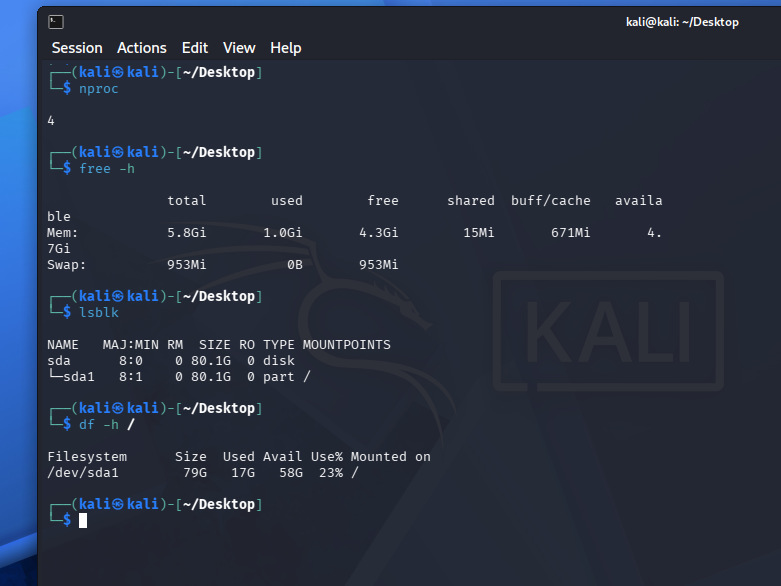
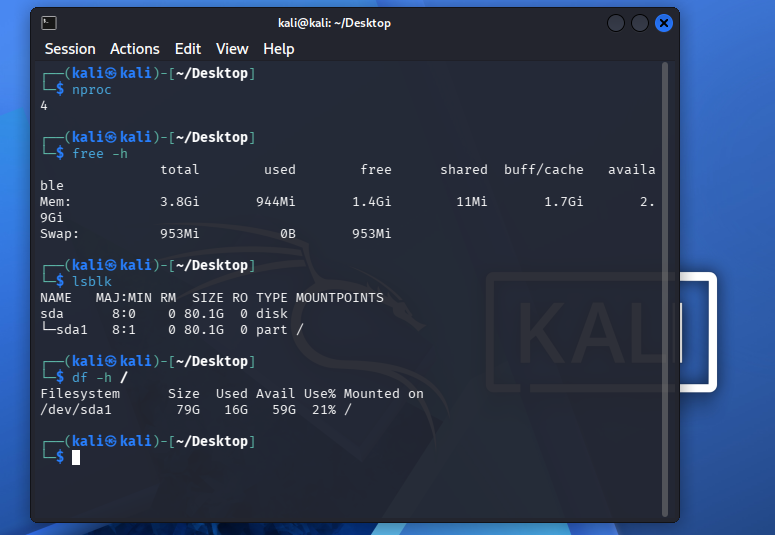
001

Changed region(s): [[0.0, 0.0, 1.0, 1.0], [0.4335, 0.2991, 0.5265, 0.4785], [0.3097, 0.2991, 0.4026, 0.4785]]

diff --git a/2026010034曹开钰/Lab4/Lab4.md b/2026010034曹开钰/Lab4/Lab4.md
@@ -1,0 +1,355 @@
+# Lab4：软件大作战
+
+> **作业目标**：在 Windows 电脑上安装并试用至少 5 款老师推荐的实用软件（其中 Everything、Geek Uninstaller、WizTree 三款必装，并平铺截图）；练习常用快捷键、解压缩、发邮件、搜索软件官网、安装油猴脚本和 Edge 插件、把浏览器主页设置为 Bing（截图）等基本操作；完成 TypingClub 第 233 关；用 edu 邮箱申请 JetBrains 学生授权和 GitHub 学生包；理解并自查 Windows 的基本正确使用风格。
+>
+> **提交前请先阅读**：本次作业只允许提交本文末尾列出的 5 个文件：`Lab4.md` 和四张截图。本模板的题目、说明、示例和选读内容不得删除；选读和建议部分不要求执行或作答，但文中所有标注（填写）的位置都必须填写。只能替换各表格中的填写提示，不得删除、改写或调整其他内容。
+
+---
+
+## 一、作业背景
+
+后面几周的课程要在自己的 Windows 电脑上反复使用一批工具软件，同时也要用到查找官网、压缩解压、收发邮件等基本操作。本实验先把这些"装备"配齐、把基本功练熟。
+
+本次推荐软件均为常见免费软件，请只从**第七节给出的官方下载地址**或 **Microsoft Store** 安装，不要使用百度搜索结果里的"高速下载器"或第三方下载站安装包。
+
+### 1.1 Windows 的基本正确风格
+
+一台 Windows 电脑用得对不对，先看三条基本风格：
+
+1. **任何时候无广告弹窗**：右下角不弹"热点资讯""xx 提醒您"，软件用完不会冒出一堆全家桶。第三方杀毒、下载站的"高速下载器"和捆绑安装是弹窗广告的三大来源；
+2. **浏览器主页没有广告**：打开浏览器就是干净的搜索页（本作业统一用 Bing），主页和搜索引擎不被导航站劫持，新建标签页没有资讯流和推广；
+3. **桌面干净清爽**：桌面只保留少量常用图标，安装包、压缩包用完即删或归档进文件夹，不把桌面当仓库。
+
+本次作业和这三条一一对应：第二、三节装正规工具、卸第三方杀毒，加上 4.7 的开机启动项清理，对应第 1 条；4.6 的主页与搜索引擎设置对应第 2 条；建议顺手把桌面整理一遍，体会第 3 条。以后每装一个软件，都可以用这三条检查一遍。
+
+完成后自查并如实填写下表（填"未做到"不影响作业通过，但请写一句打算怎么改）：
+
+| 检查项 | 完成情况 |
+| --- | --- |
+| 任何情况下无广告弹窗 | （填写"已做到"或"未做到"） |
+| 浏览器主页与新建标签页无广告 | （填写"已做到"或"未做到"） |
+| 桌面干净清爽 | （填写"已做到"或"未做到"，未做到的写一句打算怎么改） |
+
+---
+
+## 二、安装推荐软件（至少 5 款）
+
+下面 10 款都是 Windows 上口碑很好的免费软件，**至少安装 5 款并各简单用一次**，其中 **Everything、Geek Uninstaller、WizTree 三款为必装**（见 2.3），其余七款至少再装 2 款，鼓励全部安装。
+
+**下载提示（中国大陆网络环境）**：优先打开 **Microsoft Store** 搜索安装（QuickLook、Microsoft PowerToys、Snipaste、LocalSend 等商店里都有）；商店没有的再按第七节官网地址下载。部分官网服务器在境外，国内访问可能较慢，多试几次或换个时段即可；除三款必装软件外，个别官网完全打不开时，先跳过它，用其他软件凑满 5 款即可；三款必装软件请多试几次或换个时段下载，**不要**改用搜索结果里的第三方下载站。
+
+### 2.1 这十款软件分别是干什么的
+
+- **Everything（文件搜索）**：按文件名瞬间搜遍全盘的搜索工具。Windows 自带搜索慢得让人不想用，Everything 打开后输入文件名，结果毫秒级出现；装完它，"文件放哪儿了"这个问题就消失了。
+- **Geek Uninstaller（干净卸载）**：轻量级卸载工具。卸载软件后会自动扫描并清理残留的文件和注册表项，避免"卸了还有尾巴"；本实验第三节卸第三方杀毒、4.7 清理启动项时都会用到它。
+- **WizTree（磁盘空间分析）**：几秒钟扫完整个磁盘，用方块图列出哪个文件夹、哪个文件最占空间。C 盘又红了不知道删什么？用它一看便知。
+- **油猴 Tampermonkey（浏览器脚本管理器）**：给浏览器装"用户脚本"的管理器。脚本可以让网页变得更顺手，比如视频网站增强、页面去广告、自动展开全文等；脚本从 Greasy Fork 等网站一键安装，4.5 节会实际操作。
+- **LocalSend（局域网传文件）**：开源免费的跨设备传文件工具，手机和电脑连同一个 Wi-Fi 就能互传照片、文件，不用数据线、不用登录任何账号，体验类似 iPhone 的 AirDrop。
+- **7-Zip（压缩解压）**：老牌开源压缩软件，支持 zip、7z 等常见格式，7z 格式压缩率特别高，完全免费无广告。装好后右键菜单就能压缩和解压，4.2 节会用它。
+- **Snipaste（截图贴图）**：截图之外还能把截图"钉"在桌面上。F1 截图、F3 贴图，贴在屏幕上的图可以半透明、可以缩放，对着图片抄写内容、比对着填表格时特别好用。
+- **QuickLook（快速预览）**：在资源管理器里选中文件按一下空格，立刻弹出预览窗口——图片、PDF、视频、压缩包都能看，再按空格关闭，不用真的把文件打开。Mac 用户的经典体验，Windows 靠它补齐。
+- **Microsoft PowerToys（微软官方效率工具集）**：微软自己出的 Windows 增强包，包含一堆实用小工具：窗口分区管理 FancyZones、批量重命名 PowerRename、屏幕取色器、窗口置顶等，每个都值得打开试一次。
+- **PotPlayer（视频播放器）**：格式支持极全的视频播放器，各种"下下来放不出来"的视频它都能放，倍速播放、加载字幕、逐帧看都方便，界面还能高度自定义。
+
+### 2.2 动手安装并填写试用记录
+
+1. 按第七节的官方地址（或 Microsoft Store）下载安装包并安装；
+2. 逐个打开试用一次，例如用 Everything 搜一个文件、用 Snipaste 截一张图、用 LocalSend 给手机发一张照片；
+3. 在下表中把"是否安装"一列填为"已安装"或"未安装"，已安装的软件必须在"试用记录"里用一句话写下你用它做了什么；未安装的软件"试用记录"填"未安装"即可。
+
+| 软件名 | 主要用途 | 是否安装 | 试用记录 |
+| --- | --- | --- | --- |
+| Everything | 全盘文件名秒搜 | （填写） | （填写） |
+| Geek Uninstaller | 干净卸载软件 | （填写） | （填写） |
+| WizTree | 秒扫磁盘空间占用 | （填写） | （填写） |
+| 油猴（Tampermonkey） | 浏览器用户脚本管理器 | （填写） | （填写） |
+| LocalSend | 局域网内跨设备传文件 | （填写） | （填写） |
+| 7-Zip | 压缩与解压缩 | （填写） | （填写） |
+| Snipaste | 截图与贴图 | （填写） | （填写） |
+| QuickLook | 按空格键快速预览文件 | （填写） | （填写） |
+| Microsoft PowerToys | 微软官方效率工具集 | （填写） | （填写） |
+| PotPlayer | 视频播放器 | （填写） | （填写） |
+
+安装完成后请保留这些软件，后面的实验会用到其中一部分。
+
+### 2.3 三款必装软件的平铺截图
+
+Everything、Geek Uninstaller、WizTree 三款软件**必须安装**，并分别运行、简单使用一次：
+
+1. **Everything**：在搜索框输入一个自己电脑上存在的文件名，确认结果秒出；
+2. **Geek Uninstaller**：打开并浏览一遍本机已安装软件的列表；
+3. **WizTree**：选一个磁盘扫描一次，看看哪个文件夹最占空间。
+
+然后把三个软件的窗口**平铺摆放在同一屏桌面上**（用鼠标拖动窗口并排摆放，或选中窗口后按 `Win + 方向键` 分屏均可，窗口大小和排列顺序不限），截取整个桌面，保存为 `imgs/lab4_tools.png`。截图必须能同时辨认出三个软件的窗口。截图前可以先顺手整理一下桌面，正好对照 1.1 的第 3 条。
+
+将截图放入指定目录后，下面应能正常显示图片：
+
+![三款必装软件平铺桌面](imgs/lab4_tools.png)
+
+---
+
+## 三、卸载第三方杀毒软件（建议）
+
+很多新电脑预装了金山毒霸、360、麦咖啡（McAfee）、火绒等第三方杀毒软件，它们常驻后台、拖慢开机，还爱弹广告和捆绑全家桶。**Windows 自带的 Microsoft Defender 已经足够好用**，建议把第三方杀毒全部卸载，只保留 Windows Defender。
+
+操作建议：
+
+1. 打开 **设置 → 隐私和安全性 → Windows 安全中心 → 病毒和威胁防护**，确认防病毒软件是"Microsoft Defender 防病毒"；
+2. 在 **设置 → 应用 → 已安装的应用** 里找到第三方杀毒软件（或安全管家类全家桶），用 Geek Uninstaller 或系统自带的卸载功能卸载；
+3. 卸载后重启电脑一次。
+
+> 本节为**建议内容**，不强制卸载（例如实验室公用电脑、家长单位统一安装的电脑可以保留）；不卸载不影响作业通过。但下表必须填写，没有装过任何第三方杀毒软件就填"无"。
+
+| 项目 | 内容 |
+| --- | --- |
+| 本机原有的第三方杀毒或管家类软件 |无|
+| 处理方式 |已卸载|
+
+---
+
+## 四、计算机基本操作
+
+### 4.1 常用快捷键
+
+逐个按下表试用快捷键（涉及窗口切换的可以先开几个窗口试），在第二列填写它的作用，不会的可以搜索后再试。
+
+| 快捷键 | 作用 |
+| --- | --- |
+| Win + D |显示桌面|
+| Win + E |打开文件资源管理器|
+| Alt + Tab |切换窗口|
+| Win + L |锁定电脑|
+| Win + Shift + S |区域截图|
+| Win + V |打开剪贴板历史记录|
+| Ctrl + C / Ctrl + V |复制 / 粘贴|
+| Ctrl + Z |撤销|
+| Ctrl + F |查找|
+| Ctrl + Shift + Esc |打开任务管理器|
+| Ctrl + Alt + Delete |打开安全选项界面|
+| F2 |重命名|
+
+### 4.2 解压缩
+
+1. 任选一个自己文档里的文件夹（里面放几张图片或几个文档即可）；
+2. 右键该文件夹，用 7-Zip 把它压缩成一个压缩包，再把这个压缩包解压到另一个新文件夹；
+3. 对比解压出的内容和原文件夹是否一致，并填写下表。
+
+| 项目 | 内容 |
+| --- | --- |
+| 压缩格式（zip 或 7z） |zip|
+| 压缩前文件夹大小 |11700KB|
+| 压缩包大小 |3153KB|
+| 遇到的问题 |无|
+
+### 4.3 邮件使用
+
+用学校邮箱（或自己的常用邮箱）给**任意一个人**发一封邮件，同学、朋友、家人或自己都可以：
+
+1. 主题格式为 `Lab4-学号-姓名`，例如 `Lab4-2026010001-张三`；
+2. 正文写一两句话，例如本次作业里印象最深的一步；内容必须健康合规，**不得涉及任何违规信息**，也不得包含本人或他人的账号、密码、身份证号等隐私；
+3. 把 4.2 中得到的压缩包作为附件添加后发送；
+4. 发送成功后打开 **已发送** 文件夹，找到这封邮件并截图，保存为 `imgs/lab4_email.png`。
+
+截图必须能同时看到收件人、主题、正文和附件；收件人邮箱地址允许打码，但主题和正文必须完整清晰。将截图放入指定目录后，下面应能正常显示图片：
+
+![已发送的邮件](imgs/lab4_email.png)
+
+填写下表：
+
+| 项目 | 内容 |
+| --- | --- |
+| 收件人 |同学|
+| 发送的主题 |Lab4-2026010034-曹开钰|
+| 是否成功添加并发送附件 |是|
+
+### 4.4 用搜索找到软件官网
+
+百度搜索软件名时，前排经常混着广告和第三方下载站，点错就会装上"高速下载器"全家桶。请任选本次推荐清单里的一款软件搜索，找到它的官网，并用下面的方法核对：
+
+辨认官网的常用方法：
+
+- 认准结果旁的"官方"或"广告"角标，**带"广告"角标的不是官网**；
+- 核对域名是否和第七节清单一致；
+- 警惕"安全下载""高速下载"和"安全高速下载"字样；
+- 下载页只出现一个安装包，出现多个"下载"按钮或要求先装下载器的基本是第三方站。
+
+本节只要求动手搜一次并核对，不需要填写表格。
+
+### 4.5 油猴脚本与 Edge 插件
+
+1. 从第七节官方地址或 **Edge 加载项** 安装 Tampermonkey（油猴）；
+2. 打开 Greasy Fork（<https://greasyfork.org/zh-CN>）；如果访问缓慢，可搜索"greasyfork 镜像"或"greasyfork 加速"使用社区镜像站；
+3. 在 Greasy Fork 上按热度或分类挑一个自己感兴趣的脚本安装并启用；
+4. 再从 **Edge 地址栏输入 `edge://extensions` → 页面左下角"获取 Microsoft Edge 扩展"**（或 Edge 工具栏"扩展"图标 → 管理扩展 → 获取扩展）安装任意一款浏览器插件，如广告拦截、翻译、划词搜索类；
+5. 填写下表。
+
+| 项目 | 内容 |
+| --- | --- |
+| 安装的脚本名称 |ScriptCat|
+| 安装脚本使用的网站 |Greasy Fork|
+| 安装的 Edge 插件名称 |ScriptCat|
+
+### 4.6 设置浏览器主页与默认搜索引擎
+
+Edge 和 Chrome 新装好或被"全家桶"动过之后，主页常被改成推广导航站、搜索默认成不明引擎，还塞满资讯弹窗和广告。请把两个浏览器都设置成干净的状态。
+
+**Microsoft Edge**：
+
+1. 打开 **设置 → 开始、主页和新建标签页**，把"启动时"设为**打开以下页面**，添加 `https://www.bing.com`；
+2. 同一页面中，把"主页"按钮（如已开启）设为 `https://www.bing.com`；
+3. 打开 **设置 → 隐私、搜索和服务**，在"地址栏和搜索"里把搜索引擎改为 **Bing**；
+4. 在 **设置 → 开始、主页和新建标签页** 里关闭新建标签页的推广内容：将页面布局调成"自定义"或"安静"，关闭"资讯快讯""每日精选壁纸""快捷方式"等推广开关；
+5. 在 **设置 → 隐私、搜索和服务** 底部关闭个性化广告与"购物节省"等推送类功能。
+
+**Google Chrome**：
+
+1. 打开 **设置 → 启动时**，选择**打开特定网页或一组网页**，添加 `https://www.bing.com`；
+2. 打开 **设置 → 外观**，开启"显示'主页'按钮"并设为 `https://www.bing.com`；
+3. 打开 **设置 → 搜索引擎**，把地址栏中使用的搜索引擎改为 **Bing**；
+4. Chrome 新标签页本身没有资讯推广，如安装过会改主页的国产软件，请用第三节的 Geek Uninstaller 卸载并重置浏览器设置。
+
+> **中国大陆网络提示**：
+>
+> - Chrome 官网（google.com 域名）在中国大陆可能无法访问。电脑上已有 Chrome 的按上面步骤设置；没有且装不上的，下表 Chrome 两栏填"未安装"即可，不影响作业完成。
+> - 在大陆访问 `www.bing.com` 会自动跳转到 `cn.bing.com`，搜索引擎选 **Bing**、地址栏显示 `cn.bing.com` 都属正常；直接输入 `bing.cn` 也会跳转到 `cn.bing.com`，效果相同；表格里填 bing.com 或 cn.bing.com 均可。
+> - 新版 Edge 的 Bing 搜索入口和 cn.bing.com 页面偶有改版，找不到某个开关时把该栏写成你实际看到的对应设置即可，不必与上文一字不差。
+
+完成后填写下表：
+
+| 项目 | 内容 |
+| --- | --- |
+| Edge 启动页与主页按钮地址 |https://www.bing.com|
+| Edge 默认搜索引擎 | bing|
+| Edge 关闭了哪些推广内容 |讯快讯、每日精选壁纸、快捷方式、个性化广告|
+| Chrome 启动页与主页按钮地址 |未安装|
+| Chrome 默认搜索引擎 |未安装|
+
+设置完成后**必须截图**：重新打开 Edge（启动时会直接打开设置好的主页），截取包含地址栏的浏览器窗口，保存为 `imgs/lab4_homepage.png`。截图应能同时看到地址栏中的 Bing 域名（bing.com、cn.bing.com 或输入 bing.cn 后的跳转地址均可）和干净的 Bing 主页，不能是导航站或带资讯流推广的页面。将截图放入指定目录后，下面应能正常显示图片：
+
+![Edge 主页已设为 Bing](imgs/lab4_homepage.png)
+
+### 4.7 管理开机启动项
+
+很多软件安装后会把自己加进开机自启，电脑越用开机越慢、右下角图标越堆越多——这也是"全家桶"拖慢电脑的主要手段之一。
+
+1. 按 4.1 里学到的 `Ctrl + Shift + Esc` 打开任务管理器，切换到 **启动应用** 标签（Windows 10 叫"启动"）；
+2. 逐条查看列表里的启动项，把"已启用"且明显不需要开机自启的项目（各种"助手""管家""自动更新程序"等）右键选择 **禁用**；拿不准的先保留，不必全禁；
+3. 系统和驱动类项目（Windows 安全中心、显卡/触摸板驱动等）**不要禁用**；
+4. 也可以在 **设置 → 应用 → 已安装的应用** 里管理同一批启动项（Windows 11 每个应用有"启动"开关）。
+
+完成后填写下表：
+
+| 项目 | 内容 |
+| --- | --- |
+| 本机原有的已启用启动项大约有几个 |不清楚|
+| 本次禁用了哪些 |无|
+| 保留了哪些、为什么 |系统组件|
+
+---
+
+## 五、TypingClub 第 233 关
+
+继续在 TypingClub 中完成到第 233 关。
+
+1. 打开 [TypingClub](https://www.typingclub.com/) 并登录自己的账号，进入关卡选择页面；
+2. 完成第 233 关，关卡卡片上必须有至少一颗已获得的星星；
+3. 本次不要求满星，也不要求第 203—232 关出现在截图中。
+
+返回主页的关卡选择页面，向下滚动到第 233 关所在的位置，截取包含第 233 关卡片的关卡页面。截图必须在同一张图中清晰显示第 233 关的完整关卡卡片、编号 **233** 和至少一颗已获得的星星，并保留周围页面区域。
+
+截图必须保存为 `imgs/lab4_typingclub_233.png`。截图必须来自本人 TypingClub 账号。将截图放入指定目录后，下面应能正常显示图片：
+
+![TypingClub 第 233 关有星](imgs/lab4_typingclub_233.png)
+
+---
+
+## 六、拿下教育账号：JetBrains 学生授权与 GitHub 学生包
+
+学校给每个人都配了 edu 教育邮箱，它能兑换两大"学生福利"——平时要按年花钱订阅的开发工具和服务，在读期间免费。现在不写代码也先把账号拿下来，以后用的时候直接登录就行。
+
+### 6.1 JetBrains 学生授权
+
+JetBrains 是最主流的开发工具厂商，IntelliJ IDEA、PyCharm、CLion、WebStorm 等 IDE 的专业版平时按年收费，学生授权在读期间免费（每年可续）。申请步骤：
+
+1. 用 edu 邮箱注册 JetBrains 账号：<https://account.jetbrains.com/>；
+2. 打开学生计划页面 <https://www.jetbrains.com/community/education/#students>，选择 **Apply**（Students and teachers 下的学生申请）；
+3. 申请方式选 **University email address**（用学校邮箱验证），填入自己的 edu 邮箱；
+4. 提交后 edu 邮箱会收到确认邮件，按邮件提示完成验证，授权一般几分钟到一天内生效；
+5. 生效后用该账号登录 JetBrains Toolbox 或任意一款 IDE，即可免费激活全家桶。
+
+### 6.2 GitHub 学生开发包（Student Developer Pack）
+
+GitHub Student Developer Pack 是 GitHub 面向学生的福利包，包含 GitHub Pro、GitHub Copilot 学生免费、多家云服务和开发工具的免费额度，还能反过来用来授权 JetBrains。申请步骤：
+
+1. 先注册/登录 GitHub 账号，在 **Settings → Emails** 里添加自己的 edu 邮箱并完成验证邮件；
+2. 打开 <https://education.github.com/>，进入学生包申请页（Get student benefits）；
+3. 按提示填写学校名称、在读证明等信息；如果要求上传学生证或在读证明照片，按要求提供即可；
+4. 提交后等待审核，通常几小时到几天，通过后账号页面会显示 Pro 标识，Pack 权益自动生效。
+
+> **提示**：GitHub 在中国大陆访问时快时慢，可以借助开源工具 **Watt Toolkit**（原名 Steam++，官网 <https://www.watttoolkit.com/>，Microsoft Store 里也有）加速：安装后在「网络加速」里勾选 GitHub 并启动加速，再刷新申请页面即可；不想装工具就换个时段再试。两边的审核都可能要等几天，**现在就把两个申请都提交**，状态填"审核中"也算完成本次作业。
+
+完成后填写下表：
+
+| 项目 | 申请状态 | 一句话说明（审核中、遇到的问题等） |
+| --- | --- | --- |
+| JetBrains 学生授权 | （填写：已通过 / 审核中 / 失败） |审核中|
+| GitHub 学生开发包 | （填写：已通过 / 审核中 / 失败） |审核中|
+
+本节不要求截图，也不要求审核已经通过——**用 edu 邮箱把两个申请都提交，并如实填写状态，即算完成**。两个账号请保管好账号和密码，后面的课程会用到。
+
+---
+
+## 七、官方下载地址
+
+| 软件名 | 官网 |
+| --- | --- |
+| Everything | <https://www.voidtools.com/zh-cn/> |
+| Geek Uninstaller | <https://geekuninstaller.com/> |
+| WizTree | <https://diskanalyzer.com/> |
+| 油猴（Tampermonkey） | <https://www.tampermonkey.net/> |
+| LocalSend | <https://localsend.org/> |
+| 7-Zip | <https://www.7-zip.org/> |
+| Snipaste | <https://zh.snipaste.com/> |
+| QuickLook | <https://github.com/QL-Win/QuickLook>（或在 Microsoft Store 搜索 QuickLook） |
+| Microsoft PowerToys | <https://learn.microsoft.com/zh-cn/windows/powertoys/>（或在 Microsoft Store 搜索 Microsoft PowerToys） |
+| PotPlayer | <https://potplayer.daum.net/> |
+
+> QuickLook 和 Microsoft PowerToys 更推荐直接在 Microsoft Store 安装。PotPlayer 官网为韩文站点（服务器在境外，国内可能较慢或打不开），下载入口在页面上方的 Download；打不开就用 Microsoft Store 或其他播放器代替，试用记录里注明即可。
+>
+> 上表境外官网在国内多数可以直连，但速度可能较慢；GitHub 上的 QuickLook 安装包下载慢时，直接用 Microsoft Store 版，或用 6.2 提到的 Watt Toolkit 给 GitHub 加速。任何官网打不开都不要改用第三方下载站，先跳过该软件，用其他软件凑满 5 款。
+
+---
+
+## 八、提交要求
+
+将本文件复制到自己的 `学号姓名/Lab4/Lab4.md`，填写全部表格，并保留四张截图的 Markdown 图片引用。四张图片必须放在自己 `Lab4` 文件夹内的 `imgs` 文件夹中。最终只提交以下 5 个文件：
+
+```text
+学号姓名/
+└── Lab4/
+    ├── Lab4.md
+    └── imgs/
+        ├── lab4_email.png
+        ├── lab4_homepage.png
+        ├── lab4_tools.png
+        └── lab4_typingclub_233.png
+```
+
+特别注意：
+
+- 所有表格的填写栏全部必填，对应内容没有就填"无"；
+- 必须保留模板全部内容，只替换表格中的填写提示；不得删除任何标题、说明、表格行或图片引用，也不得自行增删小节；
+- 图片的文件名必须与目录结构完全一致，单词之间使用下划线 `_`，不得使用连字符 `-`；
+- 不要提交安装包、脚本文件、压缩包或任何额外文件；
+- `Lab4`、`Lab4.md`、`imgs` 和截图文件名均区分大小写；
+- 不得用外部图片链接或 PR 描述中的图片代替本地 `imgs` 文件；提交前预览 `Lab4.md`，确认四张图片均能正常显示；
+- PR 标题必须严格使用 `[学号姓名]Lab4作业提交`，右方括号后不能有空格；
+- 一个 PR 只能包含本次 Lab4 的 5 个文件，不得修改其他同学、`homework/`、README 或仓库配置。
+
+---
+
+## 九、截止时间
+
+**2026 年 10 月 25 日 24:00（即 2026 年 10 月 26 日 00:00，北京时间）**
+
+以 GitHub 记录的最后一次向 PR 推送代码的时间为准。不晚于上述时刻创建 PR 并完成最后一次推送不算超时；超过该时刻新建 PR，或向已有 PR 推送任何修改，均算作超时。审核未通过的同学请务必在截止前完成修改。
